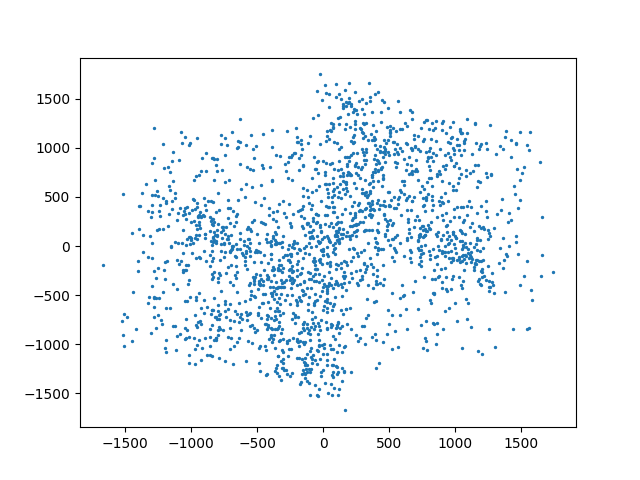
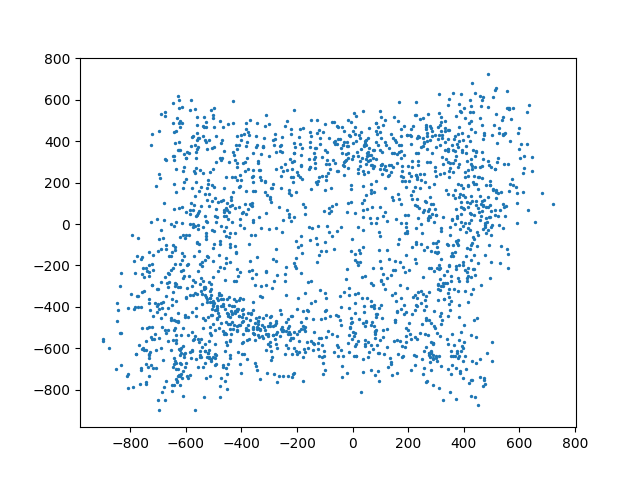
push

diff --git a/icaaa.py b/icaaa.py
@@ -5,7 +5,7 @@ import scipy.fftpack as fft
 import commpy, scipy
 import adiutil, time
 from adiutil.static import *
-from pica.ica import const_powerd_samples_2
+from pica.ica import const_powerd_samples
 
 np.random.seed(1)
 
@@ -16,7 +16,7 @@ upsample_ratio = 150
 targetrate = rate*upsample_ratio
 
 if __name__ == "__main__":
-    com = const_powerd_samples_2(complex(np.cos(np.pi/3), np.sin(np.pi/3)), 1024) 
+    com = const_powerd_samples(3, complex(np.cos(np.pi/3), np.sin(np.pi/3)), 1024) 
     upsampled = com*2**2
 
     sdr = DEVICES.find("1044734c9605000d15003300deb64fb9ce").get_pluto()
